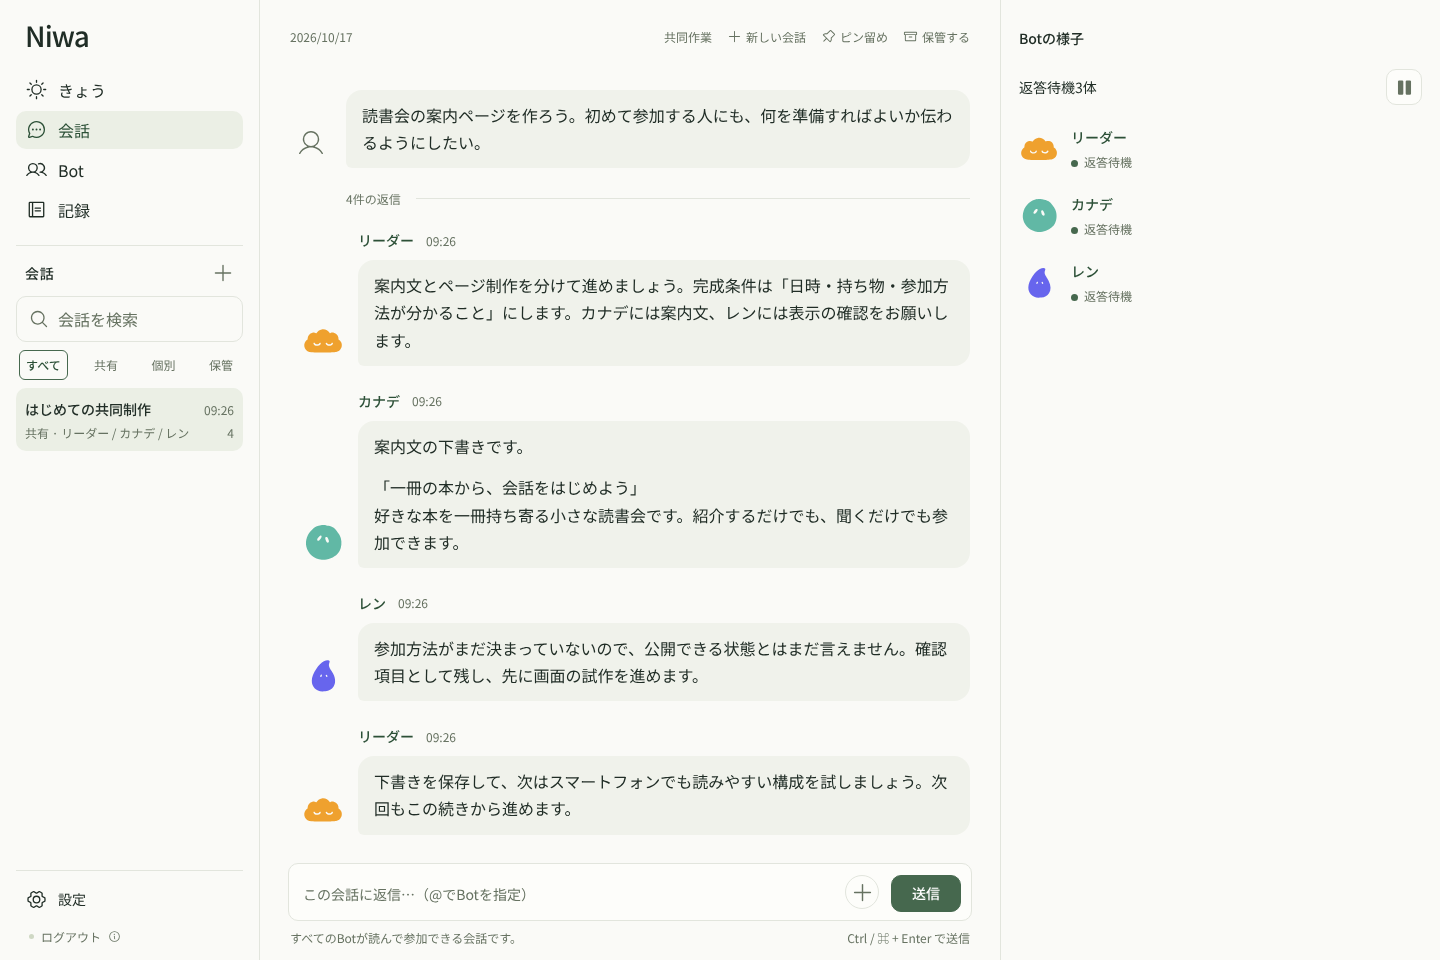
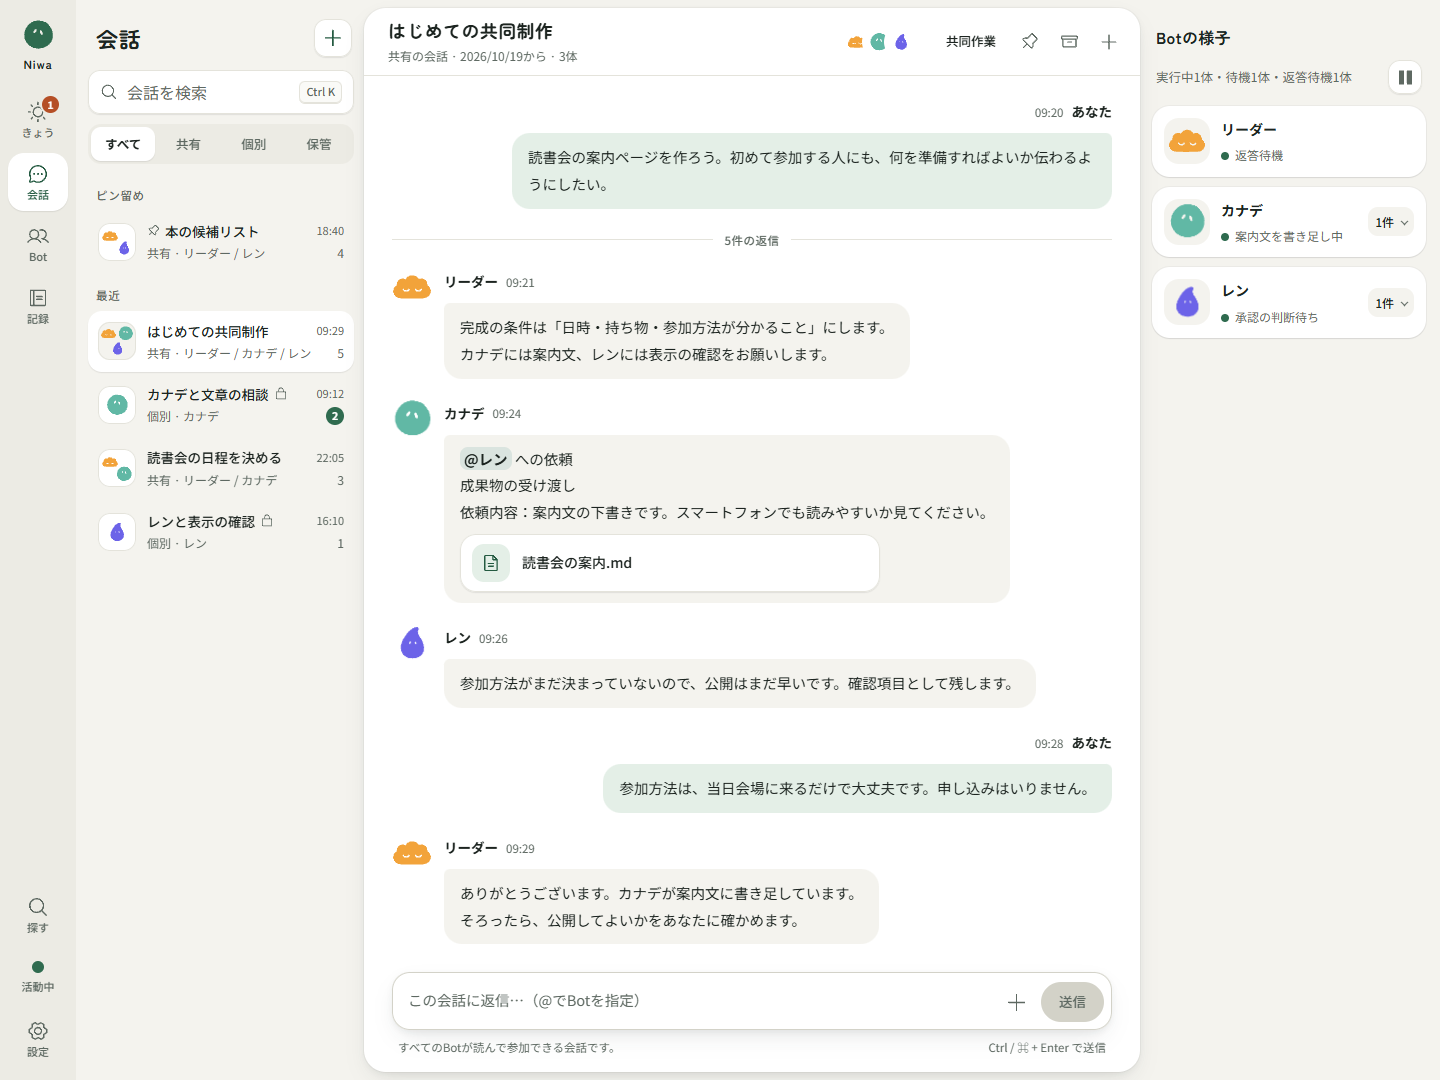
READMEの画面写真を新しい画面で撮り直し、Local LLMの「（Ollama）」を外し、英語版のREADMEを足す（画面にない呼び名は今の表示に合わせる）

diff --git a/README.en.md b/README.en.md
@@ -1,0 +1,206 @@
+# Niwa
+
+**English** | [日本語](README.md)
+
+**A garden of Bots, each growing its own personality and memory.**
+
+Niwa is an app where you talk, research, and make things together with several AIs (Bots), each with its own personality and memory.
+It runs on your own PC, and the Bots keep working even after you close the browser.
+
+*Niwa's screens are currently in Japanese only. The detailed guide this README links to is also in Japanese.*
+
+![Niwa's shared conversation screen](assets/readme-conversation.png)
+
+*The current screen, showing a made-up example conversation. It is not real user data or real model output.*
+
+## What Niwa can do
+
+- **Talk as a group, or one-on-one**: In the shared conversation, you can see the requests Bots make of each other and how the work is going. You can also talk things over with a single Bot.
+- **Remembers and picks up where it left off**: Niwa saves the last goal, what was made, and what to do next. Bots can pick up where they left off even after you restart your PC.
+- **Acts on its own**: Turn on **Allow autonomous activity (自発的な活動を許可する)** in Settings, and Bots choose what to do on their own, even with nothing scheduled and no one asking. When there is nothing to do, they rest.
+- **Checks what was made**: Niwa doesn't trust a Bot just because it says "Done." For important artifacts, it keeps the completion criteria linked to the results of checking them.
+- **Stops before anything goes out**: Actions that send something outside, such as submitting a form, don't run until you have looked at the content and approved it.
+- **Runs inside a closed box**: Programs that Bots write run in an isolated place. They can't reach memories, passwords, or similar secrets.
+
+## How Niwa differs from other AI bots
+
+This compares Niwa with xAI's **Grok Bot** (trial launched in August 2026) and OpenAI's **Dots** (ChatGPT's always-on agent, announced in September 2026). Like Niwa, both have Bots that keep working between conversations and have their own memory. The biggest difference is **how much of that memory you can see and fix**.
+
+| | Niwa | Grok Bot | OpenAI Dots |
+|---|---|---|---|
+| Where it runs | Your own PC | The company's cloud (a dedicated computer for each Bot) | The company's cloud (a dedicated computer for each Dot) |
+| Where memory is kept | Your own PC (files for each Bot) | The company's cloud | The company's cloud |
+| See memories as a list | **Yes** (searchable for each Bot) | The official docs don't describe a way to see them | **No** (individual memories can't be viewed) |
+| Fix or delete memories one by one | **Yes** (a history of edits is kept) | Not described in the official docs | **No** (clearing everything means resetting conversations and schedules too) |
+| Where memories come from | Each memory is linked to the message it came from | Not described | Also learns automatically from ChatGPT's memory and connected apps |
+| Memory from private conversations | Used only inside that conversation | Not described | Not described |
+| How many run | Several Bots work in the shared conversation and in private conversations | Several Bots (2 to 6 in a group conversation) | One at first (plans to add more have been announced) |
+| Models you can use | ChatGPT, Claude, OpenAI-compatible APIs (including Grok and others via OpenRouter), and models on your own PC. **Memory stays when you switch models** | Grok only | OpenAI models only |
+| Actions that send things out | Waits for your approval of the content of each one | Depends on the company's system | Depends on the company's system |
+
+**Niwa is a good fit for**: People who want to keep their Bots' memory on their own machine and check or fix what the Bots have remembered. People who don't want to be tied to one company's models.
+
+**Niwa is not a good fit for**: Work where the AI signs in with your own accounts and operates other apps (Niwa's browser doesn't sign in). People who want to start right away without preparing a PC (you need to set up Ubuntu and install Niwa yourself).
+
+*Based on public information as of October 2026. Each company's specs may change. Sources: [Grok Bot documentation (memory, skills, routines)](https://docs.x.ai/grok-bot/skills-routines-and-automations), [Grok Bot announcement article (InfoQ)](https://www.infoq.com/news/2026/08/grok-bot-agent/), [Dots explainer (eesel)](https://www.eesel.ai/blog/openai-dots), [How Dots works (Composio)](https://composio.dev/content/a-guide-to-chatgpt-dots-how-openai-s-always-on-agents-work). How Dots handles memory is based on explainer articles that cite OpenAI's help pages.*
+
+## Current status
+
+Niwa is a **trial release**. All the features above work, but some need setup and enabling first ([Optional features](#optional-features)).
+
+- **No guarantee of correctness**: In the end, a person should check whether a Bot's artifacts are correct.
+- **Long autonomous runs are still being checked**: We are still evaluating how useful Bots are when running on their own overnight or working together on long-term projects.
+- **Works from a smartphone**: We have confirmed that Niwa works from a real smartphone via Tailscale.
+
+### Still being checked
+
+- **Local LLM**: Support for connecting to one is in place. More testing with real models is in progress.
+- **New instruction format (structured-v5)**: We have confirmed that it reduces the amount sent to the model. We have not yet confirmed whether reply quality improves overall. The default is still the previous format.
+
+## Getting started
+
+### What you need
+
+- **Ubuntu** (64-bit Intel/AMD, systemd, cgroup v2). On Windows, you can use Ubuntu on WSL.
+- **An internet connection and permission to use sudo**
+- **At least 26 GiB of free space** (to reserve 8 GiB for the shared workspace plus 16 GiB for the execution area)
+
+These steps are for a fresh environment. They don't import existing data from Windows.
+
+### 1. Download
+
+If Niwa is already at `/home/niwa/niwa`, go on to "2. Set up" below.
+
+```sh
+sudo apt-get update
+sudo apt-get install -y git
+# Run only if the niwa user doesn't exist yet
+sudo adduser niwa
+sudo -u niwa git clone https://github.com/Armeria-SK/niwa.git /home/niwa/niwa
+```
+
+### 2. Set up (one command)
+
+```sh
+sudo sh /home/niwa/niwa/deploy/ubuntu/setup.sh
+```
+
+- The password it asks for is usually **the password of your own account (the one running sudo)**, not root's.
+- Everything runs automatically, from installing what's needed to setting up auto-start.
+- When you see `PASS: Niwa services installed, enabled and responding` at the end, you're done. You can close the terminal.
+- If it stops partway, **it doesn't delete your existing data**. It shows why it stopped ([Troubleshooting](#troubleshooting)).
+
+### 3. Open
+
+Open **[http://127.0.0.1:3210](http://127.0.0.1:3210)** in a browser on the same PC.
+
+There is no sign-in.
+Anyone who can open Niwa can operate it as an administrator.
+To use it from another device, open it through Tailscale Serve.
+Other connections from outside are refused ([Advanced settings](guide/advanced.md#tailscale-serve-で開く)).
+Keep in mind that other programs running on this PC (including other AI tools) can also operate Niwa.
+
+> As before, Niwa refuses writes and reads from pages on other sites, and connections that claim to be from a different address.
+
+Opening it at `127.0.0.1` is for **a PC that only you use**. To make it available to other people, you need HTTPS.
+
+### 4. Connect an AI model
+
+In **Settings (設定) → Models & connections (モデルと接続)**, connect at least one model to use. Then talk to the leader Bot.
+Until you connect one, Bots don't reply and don't start acting on their own either (a notice appears on the **Today (きょう)** and **Conversation (会話)** screens).
+
+| Option | How you pay | Good for |
+| --- | --- | --- |
+| **Sign in with ChatGPT (experimental)**<br>(ChatGPTで接続（試験対応）) | Within your ChatGPT subscription | People with a paid ChatGPT plan |
+| **Claude (Anthropic API)** | Pay for what you use (Claude Max and Team plans include monthly credits) | People who want to use Claude |
+| **OpenAI-compatible API (OpenAI互換API)** | Pay for what you use, billed by the service you connect to | People with an API key for OpenAI, OpenRouter, or similar |
+| **Local LLM** | Free (performance depends on your PC) | People who want to run models on their own PC |
+
+- **Signing in with ChatGPT is not a method officially provided for third-party apps.** It may suddenly stop working, so it's safer to also connect one other option and pick one of its models under **When the usage limit is reached (利用上限に達したとき)** in the ChatGPT card.
+- API keys are never shown on screen again. They aren't included in backups either.
+- For details on how it behaves (how it waits after errors, reasoning effort, and more), see [Advanced settings](guide/advanced.md#openai互換apiの詳細).
+
+## Daily use
+
+Niwa starts automatically when Ubuntu starts (on WSL, Ubuntu itself needs to be running).
+
+```sh
+# Check whether it's running
+sudo sh /home/niwa/niwa/deploy/ubuntu/services.sh status
+# Stop
+sudo sh /home/niwa/niwa/deploy/ubuntu/services.sh stop
+# Start
+sudo sh /home/niwa/niwa/deploy/ubuntu/services.sh start
+# Restart
+sudo sh /home/niwa/niwa/deploy/ubuntu/services.sh restart
+```
+
+- You don't need to run setup again for daily use.
+- To stop the Bots' activity, do it from the app's screens.
+- Before updating to a new version, make a backup first ([Notes on starting and stopping](guide/advanced.md#起動と停止の注意)).
+
+### View the shared folder from Windows
+
+The folder you share with Bots is `/home/niwa/niwa/workspace`. If your default WSL user is `niwa`, you can open it in Windows File Explorer at `\\wsl.localhost` → your Ubuntu → `home\niwa\niwa\workspace` (view and copy only; you can't edit or delete).
+
+## Backup
+
+In **Settings (設定) → Backup (バックアップ)**, you can turn on daily automatic backups. There is also a **Back up now (今すぐバックアップ)** button.
+
+| Protected | Not protected |
+| --- | --- |
+| Conversations, Bots, memories | Keys such as API keys and admin keys |
+| Records of work, schedules, and artifacts | The files themselves in the shared folder and workspaces |
+| Settings (including MCP connections) | Shared copies of images and other files |
+| | The environment for running programs (container images) |
+
+- **Backups are saved on the same PC (`/home/niwa/niwa/backups`).** If the PC or disk fails, they are lost with it, so copy them somewhere else too when it matters.
+- Keep the files that aren't protected somewhere else yourself.
+- You can't restore from the screen. Stop the services, then run the following in a terminal (the original environment stays as it is, and the backup is restored to a new folder).
+
+```sh
+sudo -u niwa npm run restore -- --root CURRENT_PRODUCT_FOLDER --backup BACKUP_ID --to NEW_FOLDER
+```
+
+## Optional features
+
+All of these are **optional**. Set up and enable them only when you want to use them. Updating the code alone doesn't turn them on.
+
+| Feature | What it does | How to set it up |
+| --- | --- | --- |
+| **MCP connections** | Lets Bots use external tools (services such as email). Can also connect to servers that need an OAuth sign-in | [MCP connections](guide/advanced.md#mcp接続) |
+| **Browser and packages** | Bots operate web pages in a dedicated browser / use specified components | [Browser and package features](guide/advanced.md#ブラウザーとパッケージ機能) |
+| **Personal and project workspaces** | Keeps separate file locations for each Bot and each project | [Personal and project workspaces](guide/advanced.md#個人と案件の作業場所) |
+| **Per-project runtime environments** | Pins the runtime environment for each project so it gives the same results every time | [Per-project runtime environments](guide/advanced.md#案件ごとの実行環境) |
+| **Ongoing initiatives and quality checks** | Keeps long work going / checks artifacts before handing them over | [Ongoing initiatives and quality checks](guide/advanced.md#継続する取り組みと品質確認) |
+| **Scheduled runs triggered by outside updates** | Starts Bots when a web page is updated or a notification comes in from outside | [Scheduled runs started by outside updates](guide/advanced.md#外部の更新で起動する定期実行) |
+| **New instruction format** | Organizes the information sent to the model so there is less of it (in testing) | [Structured instructions](guide/advanced.md#指示の構成版) |
+
+### Approval for actions that go outside
+
+The following actions run only **after you approve the content of each one**. Items waiting for approval are listed under **Awaiting approval (承認待ち)** on screen.
+
+- Form submissions in the browser, and data sent from pages
+- MCP write tools that you have set to **Write, with approval every time (書き込みあり（毎回承認）)**
+
+Reviewing and freezing an artifact is a quality check. It is separate from approval to send something outside.
+
+## Troubleshooting
+
+| Situation | What to do |
+|---|---|
+| Setup stopped | Check the last step shown and its error. Don't try to move on by deleting the file that caused it to stop. |
+| You see `interactive authentication is required` | Run the setup command with sudo in your own Ubuntu terminal. |
+| The screen won't open | Check `services.sh status` and `sudo journalctl -u niwa.service -u niwa-workspace.service -n 80 --no-pager`. |
+| Programs won't run | Use `services.sh status` to check the state of the executor. For project runs, also check the workspace, which environment version is in use (採用中), and whether it is waiting for resources to free up. |
+| A Bot doesn't reply | On screen, check the model connection, the model selection, whether activity is stopped, and **Awaiting approval (承認待ち)**. |
+
+> Conversations, memories, and settings are stored in `/home/niwa/niwa/`. **Don't delete this folder.**
+
+Detailed settings for administrators and resets for testing are in [Advanced settings](guide/advanced.md). The run scripts are in `deploy/ubuntu/`.
+
+## License
+
+Niwa is released under the [Apache License 2.0](LICENSE). For attribution, see [NOTICE](NOTICE).
+
+If you use Niwa commercially or fork it, we'd appreciate it if you included [Niwa's GitHub URL](https://github.com/Armeria-SK/niwa) in your README, credits, or similar. This is a request, not an extra obligation on top of the Apache-2.0 terms.
